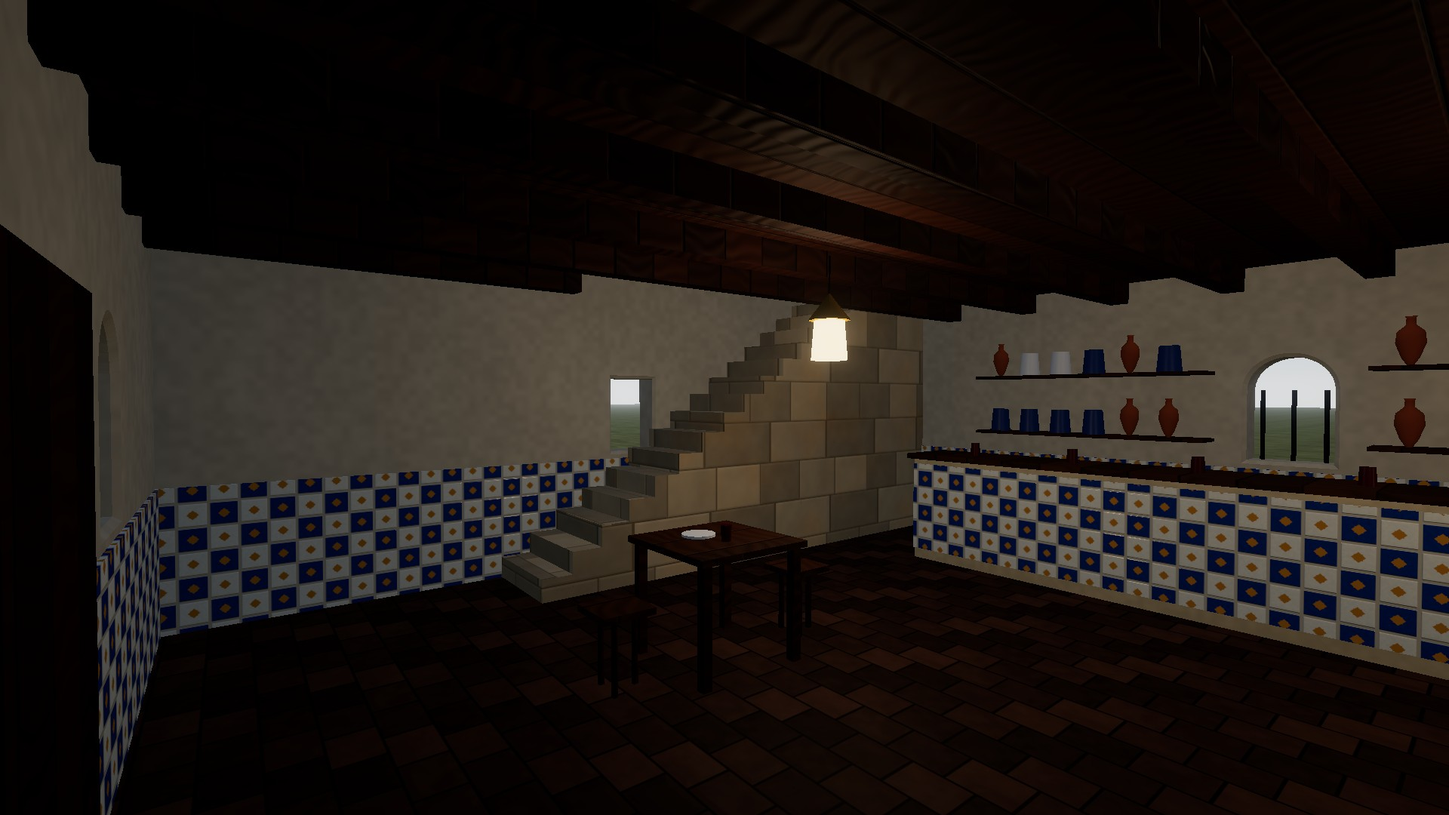
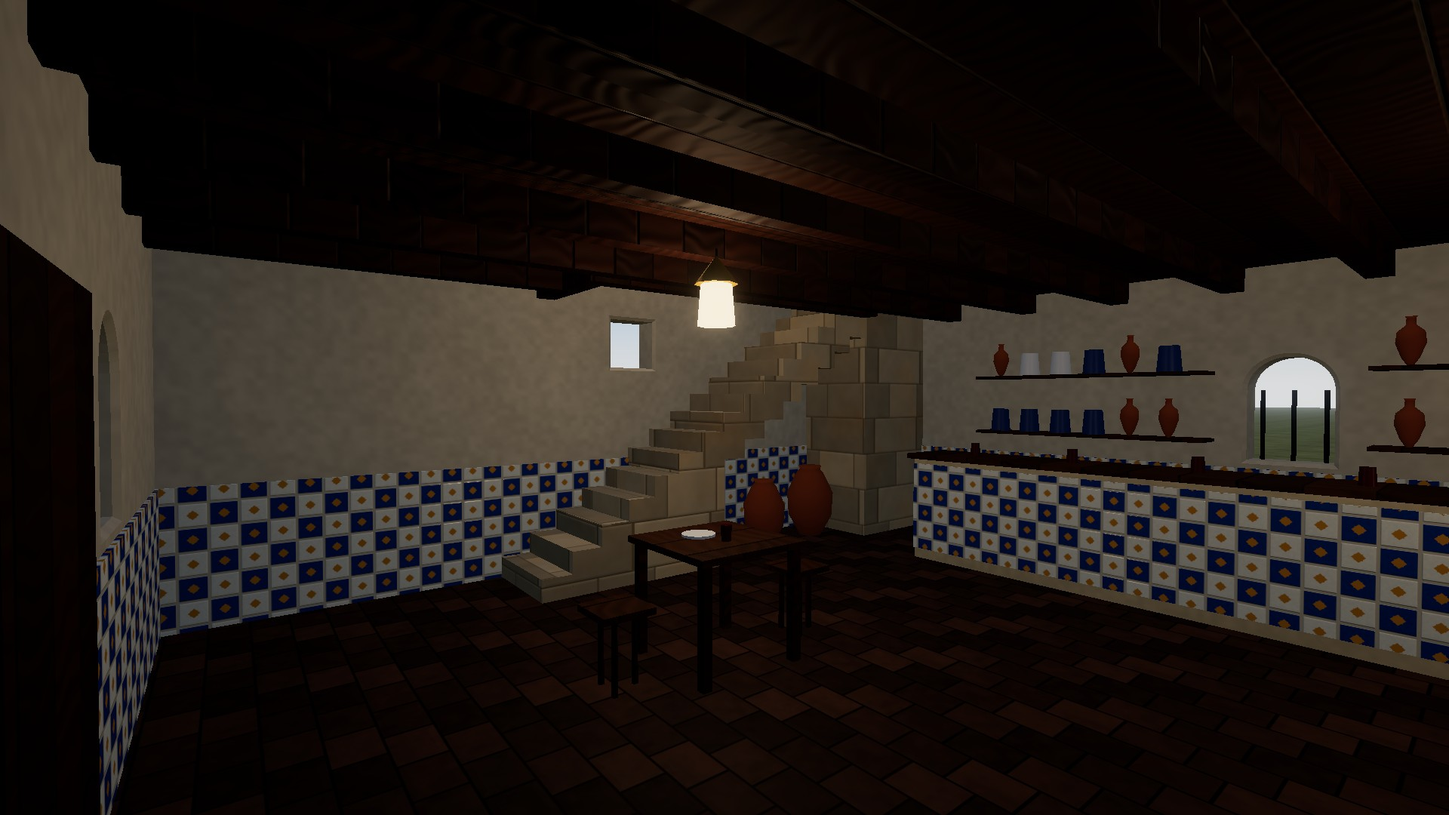
Session 1307: Aurenne's tavern, the stair opened and the well framed and lit (card F9, prototype)
The critic's walk of 1296: the upper flight open beneath on a solid base, two oil jars under it; the
well framed by cedar trimmers and lit by a bracket lamp; the west window the flight ran across raised
to a stair light (aurenneHouse's o.stairWin); the pendant lamp over the left table; view=well.

Claude-Session: https://claude.ai/code/session_01KVL3tvJZTi75bZ8tVe8U2Q

diff --git a/docs/prototypes/levelup/rooms.js b/docs/prototypes/levelup/rooms.js
@@ -475,8 +475,10 @@ export function markAlehall(o = {}, r = stream('alehall')) {
 //   landing in the back corner, the left table moved in off it; upstairs a passage along the back wall from the landing, three guest rooms
 //   off it behind plaster partitions, each with a cedar bed under an indigo cover, a chest at its foot and a basin on a stand under its
 //   front window, the first bed in the nook over the stair's foot. Adds floors, stair, well, passage, rooms [{ x0, x1, door }], beds, paths.
+//   Session 1307 (the critic's walk): the upper flight open beneath, two oil jars stored under it; the well framed in cedar and lit by a
+//   lamp on the west wall; the west window raised over the flight (o.stairWin); the pendant lamp over the left table, 2.06 m clear.
 export function aurenneTavern(o = {}, r = stream('tavern')) {
-  const R2 = !!o.rooms, w = 9.6, d = 8.0, sh = aurenneHouse({ kind: 'tile', w, d, two: R2, arcade: true, wall: 0, door: 2, pointed: false, green: false, interior: true }, stream('tavern-shell'));
+  const R2 = !!o.rooms, w = 9.6, d = 8.0, sh = aurenneHouse({ kind: 'tile', w, d, two: R2, arcade: true, wall: 0, door: 2, pointed: false, green: false, interior: true, ...(R2 ? { stairWin: { y: 1.95, h: .55 } } : {}) }, stream('tavern-shell'));
   const M = homeMats(), B = new Map(), boxes = [];
   const put = (geo, key, x = 0, y = 0, z = 0, ry = 0, uv = .6) => { const g = geo.index ? geo.toNonIndexed() : geo; for (const k of Object.keys(g.attributes)) if (!['position', 'normal'].includes(k)) g.deleteAttribute(k);
     g.applyMatrix4(new THREE.Matrix4().compose(new THREE.Vector3(x, y, z), new THREE.Quaternion().setFromEuler(new THREE.Euler(0, ry, 0)), new THREE.Vector3(1, 1, 1))); worldUV(g, uv); if (!B.has(key)) B.set(key, []); B.get(key).push(g); return g; };
@@ -520,17 +522,25 @@ export function aurenneTavern(o = {}, r = stream('tavern')) {
   for (let i = 0; i < 160; i++) { const x = -w / 2 + .4 + r() * (w - .8), z = PZ0 - .2 + r() * (PZ1 - PZ0 + .4); put(new THREE.IcosahedronGeometry(.12 + r() * .1, 0), 'leaf', x, PY + .26 + r() * .1, z, r() * 6); if (r() < .08) put(new THREE.ConeGeometry(.07, .2, 6).rotateX(Math.PI), 'grape', x, PY + .05, z); }
   for (const x of [-w / 2 + .5, w / 2 - .5]) for (let k = 0; k < 14; k++) put(new THREE.IcosahedronGeometry(.08 + r() * .05, 0), 'leaf', x + (r() - .5) * .2, FT + .3 + k * .17, PZ1 + (r() - .5) * .2, r() * 6);
   // the lamps: two brass lanterns inside from the beams, and one in the middle arch
-  const lamps = [], LT = R2 ? F1 - .4 : TOP - .2 /* the beams they hang from */, LY = R2 ? F1 - .95 : TOP - .75; for (const [x, y, z] of [[-1.6, LY, .2], [1.8, LY, -.8]]) { bx('iron', x - .005, x + .005, y + .2, LT, z - .005, z + .005); put(new THREE.CylinderGeometry(.1, .12, .26, 8), 'glow', x, y, z); put(new THREE.ConeGeometry(.14, .18, 8), 'brass', x, y + .22, z); lamps.push([x, y, z]); }
+  const lamps = [], LT = R2 ? F1 - .4 : TOP - .2 /* the beams they hang from */, LY = R2 ? F1 - .75 : TOP - .75; for (const [x, y, z] of [[R2 ? -1.9 : -1.6, LY, R2 ? .9 : .2] /* o.rooms: over the left table, off the stair's line (Session 1307) */, [1.8, LY, -.8]]) { bx('iron', x - .005, x + .005, y + .2, LT, z - .005, z + .005); put(new THREE.CylinderGeometry(.1, .12, .26, 8), 'glow', x, y, z); put(new THREE.ConeGeometry(.14, .18, 8), 'brass', x, y + .22, z); lamps.push([x, y, z]); }
   // o.rooms: the stair up the west wall, 16 masonry risers going 0.26 from beside the door to the landing in the back corner; the upper
   // floor of cedar boards under red tiles on beams every 0.9 m, open over the stair where a head would meet it (the well); a passage
   // along the back wall, three rooms off it behind plaster partitions; the rail-less well walled on its two open sides by the partitions
   const RM = []; let stair = null, well = null, PZ = null, beds = [], paths = null;
   if (R2) { const N = 16, rise = (F1 - F0) / N, going = .26, WX = -X + .95, LZ = -Z + 1.15, SZ0 = LZ + (N - 1) * going /* the foot */;
-    for (let k = 1; k < N; k++) bx('step', -X, WX, F0, F0 + k * rise, SZ0 - k * going, SZ0 - (k - 1) * going, 'stair', 0);
+    // (Session 1307) the lower seven treads stand on a solid base; the upper flight bridges from it to the landing's pier as blocks
+    // 0.45 m deep under each tread's nosing, so its stepped soffit shows and the store under it holds two oil jars
+    const KS = 7; for (let k = 1; k < N; k++) bx('step', -X, WX, k > KS ? F0 + k * rise - .45 : F0, F0 + k * rise, SZ0 - k * going, SZ0 - (k - 1) * going, 'stair', 0);
     bx('step', -X, WX, F0, F1 - .2, -Z, LZ, 'landing', 0);
+    for (const [z, s] of [[SZ0 - 10.6 * going, .78], [SZ0 - 13.4 * going, .9]]) { const jx = (-X + WX) / 2; put(new THREE.LatheGeometry([[.001, 0], [.14, 0], [.28, .25], [.3, .55], [.18, .8], [.13, .86], [.15, .9], [.001, .9]].map(([a, b]) => new THREE.Vector2(a * s, b * s)), 14), 'terra', jx, F0, z);
+      boxes.push({ tag: 'oiljar', x0: jx - .3 * s, x1: jx + .3 * s, y0: F0, y1: F0 + .9 * s, z0: z - .3 * s, z1: z + .3 * s, fl: 0 }); }
     const kmax = Math.floor((F1 - .4 - F0 - 2.0) / rise) /* 2 m under the beams over the treads the floor covers */; well = { x0: -X, x1: WX, z0: LZ, z1: SZ0 - kmax * going };
     for (const [a0, a1, b0, b1] of [[WX, X, -Z, Z], [-X, WX, -Z, well.z0], [-X, WX, well.z1, Z]]) { bx('cedar', a0, a1, F1 - .2, F1 - .03, b0, b1); bx('tile', a0, a1, F1 - .03, F1, b0, b1); }
     for (let x = -X + .5; x < X - .2; x += .9) { const over = x < WX + .1; bx('cedarD', x - .08, x + .08, F1 - .4, F1 - .2, over ? well.z1 : -Z, Z); if (over) bx('cedarD', x - .08, x + .08, F1 - .4, F1 - .2, -Z, well.z0); }
+    // (Session 1307) the well framed: a cedar trimmer down its open side and one across its foot, as deep as the beams, the floor's
+    // edge lined in plaster between them, so the opening reads from the room below
+    bx('cedarD', WX, WX + .18, F1 - .4, F1 - .2, well.z0, well.z1 + .18); bx('cedarD', -X, WX, F1 - .4, F1 - .2, well.z1, well.z1 + .18);
+    bx('plaster', WX, WX + .02, F1 - .2, F1, well.z0, well.z1); bx('plaster', -X, WX, F1 - .2, F1, well.z1, well.z1 + .02);
     stair = { x0: -X, x1: WX, z0: LZ, z1: SZ0, rise: +rise.toFixed(4), going, n: N };
     // upstairs: a dado of glazed tile to 0.6 m, the partitions in plaster to the roof's beams, a door into each room off the passage
     for (const e of [-1, 1]) bx('zellige', e > 0 ? X - .02 : -X, e > 0 ? X : -X + .02, F1, F1 + .6, -Z, Z); bx('zellige', -X, X, F1, F1 + .6, -Z, -Z + .02); bx('zellige', -X, X, F1, F1 + .6, Z - .02, Z);
@@ -548,6 +558,8 @@ export function aurenneTavern(o = {}, r = stream('tavern')) {
       { const g = new THREE.CylinderGeometry(.1, .1, .86, 12); g.rotateZ(Math.PI / 2); put(g, 'madder', (b.x0 + b.x1) / 2, F1 + .54, b.z1 - .25); }
       bx('cedarD', b.x0 + .05, b.x1 - .05, F1, F1 + .48, b.z0 - .55, b.z0 - .05, 'chest', 1); bx('brass', b.x0 + .05, b.x1 - .05, F1 + .3, F1 + .33, b.z0 - .56, b.z0 - .55); beds.push(b);
       const wx = wins[i], wz = Z - .3; bx('cedar', wx - .22, wx + .22, F1, F1 + .78, wz - .2, wz + .2, 'washstand', 1); put(new THREE.CylinderGeometry(.16, .1, .07, 14), 'brass', wx, F1 + .815, wz); put(new THREE.LatheGeometry([[.001, 0], [.06, 0], [.08, .1], [.05, .2], [.04, .24], [.001, .24]].map(([a, c]) => new THREE.Vector2(a, c)), 10), 'terra', wx + .14, F1 + .78, wz - .06); });
+    // (Session 1307) a lamp on a bracket in the well, on the west wall over the upper flight, so the opening shows lit from below
+    { const lx = -X + .22, ly = F1 + 1.15, lz = well.z1 - .7; bx('iron', -X, lx, ly + .2, ly + .23, lz - .01, lz + .01); put(new THREE.CylinderGeometry(.1, .12, .26, 8), 'glow', lx, ly, lz); put(new THREE.ConeGeometry(.14, .18, 8), 'brass', lx, ly + .2, lz); lamps.push([lx, ly, lz]); }
     // a brass lamp on a bracket over the passage, on the back wall
     { const lx = .1, ly = F1 + 1.95, lz = -Z + .25; bx('iron', lx - .01, lx + .01, ly + .2, ly + .23, -Z, lz); put(new THREE.CylinderGeometry(.1, .12, .26, 8), 'glow', lx, ly, lz); put(new THREE.ConeGeometry(.14, .18, 8), 'brass', lx, ly + .2, lz); lamps.push([lx, ly, lz]); }
     // the walks, each on its floor: in at the door, across the front of the room to the stair's foot; off the landing along the passage

diff --git a/docs/prototypes/levelup/rooms-view.js b/docs/prototypes/levelup/rooms-view.js
@@ -17,7 +17,8 @@
 // the terrace to the sea; view=tap: inside from the door to the counter; view=pergola: from the parapet back under the vine to the
 // arcade; view=outside: the tavern from the water. The ground stops at the quay; the sea lies 3.2 m below.
 // &rooms=1 (Session 1296): the tavern two storeys high with three rooms to let upstairs. view=stair: from inside the door to the stair up
-// the west wall; view=upstairs: the passage from the landing; view=chamber&n=0|1|2: a guest room from its door.
+// the west wall; view=well (Session 1307): from beside the stair's foot up the flight into the well; view=upstairs: the passage from the
+// landing; view=chamber&n=0|1|2: a guest room from its door.
 // ?room=court (Session 899): Aurenne's courtyard house. view=court (default): from inside the street door through the vestibule and the
 // arcade to the fountain and the hall's arch; view=gallery: from a corner of the upper gallery down over the court; view=hall: the
 // reception hall; view=kitchen; view=bedroom; view=study; view=children; view=outside: the house from the street; view=above: the roof
@@ -300,6 +301,7 @@ else if (CRT) { const S = C.sh, [F0, F1] = C.floors, A = S.A;
   else { eye = [0, F0 + 1.62, A - .25]; at = [0, F0 + 1.1, -6]; cam.fov = 66; } }
 else if (TAV) { const Z = C.inner.z1, X = C.inner.x1, T = C.terrace, F1 = C.floors ? C.floors[1] : 0;
   if (VIEW === 'stair' && C.stair) { eye = [1.2, C.floor + 1.62, Z - .4]; at = [-X, C.floor + 1.5, -1.2]; cam.fov = 66; }
+  else if (VIEW === 'well' && C.stair) { const S = C.stair, sx = (S.x0 + S.x1) / 2; eye = [sx + .55, C.floor + 1.62, S.z1 + 1.1]; at = [sx, F1 + .5, C.well.z0]; cam.fov = 74; }
   else if (VIEW === 'upstairs' && C.rooms) { eye = [-X + .5, F1 + 1.62, (-C.inner.z1 + C.passage) / 2 - .3]; at = [X, F1 + 1.2, (-C.inner.z1 + C.passage) / 2 + .1]; cam.fov = 70; }
   else if (VIEW === 'chamber' && C.rooms) { const R = C.rooms[+Q.get('n') || 1]; eye = [R.door.x, F1 + 1.62, C.passage + .3]; at = [R.door.x + (R.x1 - R.x0) * .15, F1 + .6, Z]; cam.fov = 72; }
   else if (VIEW === 'tap') { eye = [C.door.x + .3, C.floor + 1.62, Z - .2]; at = [-.6, C.floor + 1.0, -Z]; cam.fov = 66; }

diff --git a/docs/prototypes/levelup/pieces.js b/docs/prototypes/levelup/pieces.js
@@ -109,7 +109,9 @@ export function aurenneHouse(o, r) {
   put(box(w + .16, pl, d + .16), 'plinth', 0, pl / 2, 0);
   const yW = pl;
   put(wallGeo(w, H, front), wallK, 0, yW, d / 2 - T / 2); put(wallGeo(w, H, back), wallK, 0, yW, -d / 2 + T / 2, Math.PI);
-  put(wallGeo(d - 2 * T + .02, H, side), wallK, w / 2 - T / 2, yW, 0, Math.PI / 2); put(wallGeo(d - 2 * T + .02, H, side), wallK, -w / 2 + T / 2, yW, 0, -Math.PI / 2);
+  // o.stairWin (Session 1307, the tavern's rooms): the west wall's ground window raised to { y, h }, a stair light over a flight up that wall
+  const sideW = o.stairWin ? side.map(h => h.up ? h : { ...h, ...o.stairWin }) : side;
+  put(wallGeo(d - 2 * T + .02, H, side), wallK, w / 2 - T / 2, yW, 0, Math.PI / 2); put(wallGeo(d - 2 * T + .02, H, sideW), wallK, -w / 2 + T / 2, yW, 0, -Math.PI / 2);
   if (!o.interior) put(box(w - 2 * T, H - .3, d - 2 * T), 'dark', 0, yW + (H - .3) / 2, 0);
   // the door: five cedar boards in its colour set back in the reveal under a half-round head, iron studs, a stone step, the tile frame round it
   for (const h of front.filter(h => h.door)) { const dz = d / 2 - T * .7, nb = 5, sh = h.h - h.w / 2;
@@ -131,7 +133,7 @@ export function aurenneHouse(o, r) {
       for (const sx of [-1, 1]) put(box(.08, .32, .3), 'cedar', hx + sx * (bw / 2 - .08), by - bh / 2 - .22, z + s * .12);
       continue; }
     for (let i = 0; i < 3; i++) put(new THREE.CylinderGeometry(.018, .018, h.h - h.w / 2, 5), 'iron', hx - h.w / 3 + i * h.w / 3, yW + h.y + (h.h - h.w / 2) / 2, z - s * .1); }
-  for (const sx of [-1, 1]) for (const h of side) put(box(h.w + .2, .08, .2), 'stone', sx * (w / 2 + .05), yW + h.y - .04, 0, sx * Math.PI / 2);
+  for (const sx of [-1, 1]) for (const h of sx < 0 ? sideW : side) put(box(h.w + .2, .08, .2), 'stone', sx * (w / 2 + .05), yW + h.y - .04, 0, sx * Math.PI / 2);
   const top = yW + H; let roofTop = top, depthOut = d / 2 + .3;
   if (o.kind === 'tile') {
     // Roman: a stone cornice, a hipped roof at 22° in pantile, ridge tiles on the hips and the ridge, rafter ends under the eaves

diff --git a/docs/backlog.md b/docs/backlog.md
@@ -553,7 +553,7 @@ Michael marked all 96 images of the intake on the review page: 63 KEEP and 33 NO
 
 ### L9. Culture and daily life (the second and third rounds)
 - **Festivals on the calendar** (systems and quest writer; OG-107; with the calendar's market days and feasts): three festivals an island, each in its month: the Greening (a maypole spring feast), Riverfair (a summer fair on the rivers), the Night of the Lanterns (October, lanterns let go for those who never came back from the gates, close to the canon); Midwinter fires, a fair of boat races and duels, a First Snow rite under the aurora; a festival of learning, a spice caravan, lamps set afloat. Everyday life to fill the towns: stalls, a smith at work, a temple service, wrestling and archery, a harbour gathering. The Mark's fair is run by captains and reeves, not jarls and a thane; “many gods” belongs to the Gatelands' old faith, not the Church. **Drafted:** *Festivals on the Calendar, I* (quest writer, 21 Oct, unapproved; `docs/quest_drafts.md`, on the page as `festivals-1`): all nine named and dated, each on its god's day (the Greening Sowing 3, Riverfair Haysel 18, the Night of the Lanterns Leaffall 26; the Mark's Blaze, Strait Fair and First Snow; Aurenne's Commencement, Caravan and Lamps on the Water), and the Gatelands' three written in full: greetings by people, a ribbon, a cup for the sea, a lantern. The rules it asks are small (a festival fills the square as a feast does, by the town's nation; nothing free). Owed: the Mark's three (run 2), Aurenne's three (run 3); for the look builder once approved, the dressed pole and the rising lanterns.
-- **Three inns** (look builder, interiors; OG-108): a Gatelander inn round its hearth, a Markish longhouse of long tables, an Aurennais tavern on a terrace over the sea. With L5's interiors by nation. **Begun, Session 893 (card F9, prototype):** the Gatelander inn, `gatelandsInn` inside the kit's farmhouse (its front door `ajar`), `rooms.html?room=inn`: a taproom round the west gable's hearth with a settle, the bar and its kegs across the back wall, two tables with benches, a stair up the east gable, three guest rooms off a passage upstairs; `rooms.check.mjs` 34 of 34; the shell and the rooms asked as **DECISION #320**. **The Mark's inn, Session 894 (prototype):** `markAlehall` inside `markHall` widened to 10 by 18 m, `rooms.html?room=alehall`: a long hearth under the louver, two long tables of 12.6 m between the posts with loose benches, furred wall benches to eat and sleep on, the counter and kegs across the back, a rack of spears and round shields by the door; `rooms.check.mjs` 40 of 40; where guests sleep and the size asked as **DECISION #321**. **Aurenne's tavern, Session 895 (prototype):** `aurenneTavern` inside the Roman Aurennais house with its arcade, `rooms.html?room=tavern`: a tiled room with the counter, amphorae and the cooking bench; two tables in the loggia; a paved terrace of 4 m to a parapet on the quay wall, three tables under a vine; `rooms.check.mjs` 46 of 46; the house and the shade asked as **DECISION #322**. The three inns are drawn; each waits on its decision. **Into the game, begun, Session 1157 (card F9):** the Gatelander taproom (#320's 2 A) copied into `js/38-kit.js` as `PKIT.gl.inn(o, r)`, the prototype's own triangles and vertices for four keys (`tests/kitinnroom`); ~~hung inside the village inn on `?look=new`~~ — done, Session 1161: a Gatelands village inn on three bays is the taproom inside (`buildKitTaproom`, `tests/kittaproom`). ~~A two-bay inn's taproom~~ — done, Session 1276 (`gatelandsInn`'s `o.bays`, prototype and kit: one table, two rooms, the door in the west bay; `house._exitX`, `intDoorX`). Still owed: a coaching inn's taproom (it keeps the old room). **The Mark's alehall copied into the game's kit, Session 1159** (#321 A; `PKIT.mk.alehall`, `tests/kitalehall`); ~~its hanging in a Markish inn~~ — done, Session 1288 (OG-108; the inn's lot the kit's hall outside, up to 10 by 18 m, `lot.kit.alehall`; `buildKitAlehall` inside at 10 by 18, six places 0–5 on the wall benches, the benches 0.40 high to step onto; `tests/alehallroom`). **The keeper's words for a bench, Session 1285** (#588 A, the quest writer): `INN_BENCH_LINES.markman`, the greeting `INN_BENCH_GREET`, six places named by `innBenchName` (0–2 the left bench and 3–5 the right, as you come in, each counted door, middle, counter), the bed prompts and the lapse line. They switch on when `innBench(house)` is true, which reads `house.kit.alehall`: the look builder sets `alehall:true` on the inn's `lot.kit` at planning (before `makeDef` gives the keeper a greeting) and gives the bench's beds `owner:'inn'` and `room` 0–5 in that order. **Aurenne's tavern copied into the game's kit, Session 1167** (#322 A; `PKIT.au.tavern`, with Aurenne's house `PKIT.au.house` and its surfaces, `tests/kittavern`); its hanging waits on Aurenne's lots coming into the game. **Rooms to let, Session 1296 (prototype):** as drawn the tavern has one storey and no beds, while the Aurennais keeper lets "a room … up the stairs" (`INN_ROOM_LINES.aurennais`); `aurenneTavern({ rooms: true })`, `rooms.html?room=tavern&rooms=1`, is the house two storeys high, a stair of 16 risers up the west wall, a passage along the back upstairs and three rooms off it, a bed, a chest and a basin in each; `rooms.check.mjs`'s five new checks; asked as **DECISION #602** (rooms upstairs or the words changed, and every Aurennais inn or the ports only). The hanging waits on it. **Not yet as #303's 1 A asks:** every room, the taproom included, still loads as its own scene at the door; rooms inside the street's own shell with no load (the indoor flag, world-space solids, the light) is a cross-cutting change for a deep-work card.
+- **Three inns** (look builder, interiors; OG-108): a Gatelander inn round its hearth, a Markish longhouse of long tables, an Aurennais tavern on a terrace over the sea. With L5's interiors by nation. **Begun, Session 893 (card F9, prototype):** the Gatelander inn, `gatelandsInn` inside the kit's farmhouse (its front door `ajar`), `rooms.html?room=inn`: a taproom round the west gable's hearth with a settle, the bar and its kegs across the back wall, two tables with benches, a stair up the east gable, three guest rooms off a passage upstairs; `rooms.check.mjs` 34 of 34; the shell and the rooms asked as **DECISION #320**. **The Mark's inn, Session 894 (prototype):** `markAlehall` inside `markHall` widened to 10 by 18 m, `rooms.html?room=alehall`: a long hearth under the louver, two long tables of 12.6 m between the posts with loose benches, furred wall benches to eat and sleep on, the counter and kegs across the back, a rack of spears and round shields by the door; `rooms.check.mjs` 40 of 40; where guests sleep and the size asked as **DECISION #321**. **Aurenne's tavern, Session 895 (prototype):** `aurenneTavern` inside the Roman Aurennais house with its arcade, `rooms.html?room=tavern`: a tiled room with the counter, amphorae and the cooking bench; two tables in the loggia; a paved terrace of 4 m to a parapet on the quay wall, three tables under a vine; `rooms.check.mjs` 46 of 46; the house and the shade asked as **DECISION #322**. The three inns are drawn; each waits on its decision. **Into the game, begun, Session 1157 (card F9):** the Gatelander taproom (#320's 2 A) copied into `js/38-kit.js` as `PKIT.gl.inn(o, r)`, the prototype's own triangles and vertices for four keys (`tests/kitinnroom`); ~~hung inside the village inn on `?look=new`~~ — done, Session 1161: a Gatelands village inn on three bays is the taproom inside (`buildKitTaproom`, `tests/kittaproom`). ~~A two-bay inn's taproom~~ — done, Session 1276 (`gatelandsInn`'s `o.bays`, prototype and kit: one table, two rooms, the door in the west bay; `house._exitX`, `intDoorX`). Still owed: a coaching inn's taproom (it keeps the old room). **The Mark's alehall copied into the game's kit, Session 1159** (#321 A; `PKIT.mk.alehall`, `tests/kitalehall`); ~~its hanging in a Markish inn~~ — done, Session 1288 (OG-108; the inn's lot the kit's hall outside, up to 10 by 18 m, `lot.kit.alehall`; `buildKitAlehall` inside at 10 by 18, six places 0–5 on the wall benches, the benches 0.40 high to step onto; `tests/alehallroom`). **The keeper's words for a bench, Session 1285** (#588 A, the quest writer): `INN_BENCH_LINES.markman`, the greeting `INN_BENCH_GREET`, six places named by `innBenchName` (0–2 the left bench and 3–5 the right, as you come in, each counted door, middle, counter), the bed prompts and the lapse line. They switch on when `innBench(house)` is true, which reads `house.kit.alehall`: the look builder sets `alehall:true` on the inn's `lot.kit` at planning (before `makeDef` gives the keeper a greeting) and gives the bench's beds `owner:'inn'` and `room` 0–5 in that order. **Aurenne's tavern copied into the game's kit, Session 1167** (#322 A; `PKIT.au.tavern`, with Aurenne's house `PKIT.au.house` and its surfaces, `tests/kittavern`); its hanging waits on Aurenne's lots coming into the game. **Rooms to let, Session 1296 (prototype):** as drawn the tavern has one storey and no beds, while the Aurennais keeper lets "a room … up the stairs" (`INN_ROOM_LINES.aurennais`); `aurenneTavern({ rooms: true })`, `rooms.html?room=tavern&rooms=1`, is the house two storeys high, a stair of 16 risers up the west wall, a passage along the back upstairs and three rooms off it, a bed, a chest and a basin in each; `rooms.check.mjs`'s five new checks; asked as **DECISION #602** (rooms upstairs or the words changed, and every Aurennais inn or the ports only). The hanging waits on it. **Session 1307 (prototype, the critic's walk of 1296):** the upper flight is open beneath on a solid base of seven treads, two oil jars stored under it; the well is framed by cedar trimmers and lit by a bracket lamp on the west wall; the shell's west ground window, which the flight ran across, is raised to a stair light over the treads (`aurenneHouse`'s `o.stairWin`); the pendant lamp hangs over the left table, 2.06 m clear; a new view, `view=well`, from the stair's foot. **Not yet as #303's 1 A asks:** every room, the taproom included, still loads as its own scene at the door; rooms inside the street's own shell with no load (the indoor flag, world-space solids, the light) is a cross-cutting change for a deep-work card.
 - **Music and players by island** (systems for `76-music.js`, the look builder for the players; OG-112): each island its own band: fiddle, whistle, bodhrán, harp and lute; tagelharpa, war horn, frame drum, bowed lyre and bone flute; oud, qanun, ney, riq and santur. Musicians among the townsfolk with an instrument held and a pose of their own; a storyteller by a fire telling of the Old Gates, a skald in the longhouse, travelling players with a wagon, tavern musicians.
 - **The six gods' shrines, dressed by island** (look builder for the dressings, systems for `87-world-quests.js`' shrines; OG-113, the closest sheet to the canon yet): one common niche for each god (a robed figure, a candle, a basin; a wolf for Na Beithígh) with the Guest's seventh niche beside it, its figure chiselled away. The Gatelands' shrines whitewashed, ribboned and tended beside holy wells, with ring-stones and high crosses; the Mark's roofed timber shrines with a lamp always lit, and oath stones; Aurenne's plastered, fenced and regulated, domed churches, tithe-ships with Priors aboard. People: a lamp-keeper, a Church clerk, an Old Blood rubbing-seller, a hereditary gate-keeper, mourners with a bier, a funeral that ends at a gate (the Clearing, §3.1). Objects: the six icons, rubbings, offerings, a tithe box. Not the Mark's “clans and lords” (captains and reeves) or a priest as mayor (Elders). **The row at the town church, Session 1172 (prototype; Michael's C on #439 and his note, “in or near churches?”):** `shrines-church.html?place=back|side|square|all`, the Gatelands' west-tower church (#410 B) on its #433 B plot with the row of seven three ways: A behind the chancel in the plot as laid (1.34 m to the eaves), B along the yard's long side with the yard 2 → 4.5 m (recommended), C free-standing on the square beside the tower door; `shrines.js`'s `row(island, {yard:true})` drops the row's own wall, well, thorn, cross and ring-stone in a churchyard (21.9k tris against 32.6k); `shrines-church.check.mjs` 24 of 24; asked as **DECISION #464**. The page needs #393's `gatelandsChurch` to run.
   - Michael's C on #439 (18 Oct 2026): by place — each wayside shrine is one god's niche; the row of seven stands once per town. His note: “Would it make sense to have the rows in or near churches?”

diff --git a/docs/devlog/1307.md b/docs/devlog/1307.md
@@ -1,0 +1,47 @@
+## v80 — Session 1307 — Aurenne's tavern: the stair opened, the well framed and lit (card F9, prototype)
+The look builder's items in the game wait on answers: Aurenne's tavern on #602, and the main quest's two gates on #613. The
+critic's walk of the prototypes (`docs/critic.md`, run on s827) left three findings for the look builder. One is in my own
+Session 1296: "The stair is a solid ashlar block rising to the beams, though, and from the door no stairwell shows in the ceiling
+over it. The pendant lantern hangs in front of the stair at about head height for a climber on the lower flight." The tavern goes
+into the game once #602 is answered (A, rooms upstairs, is recommended), so I fixed it now, in the prototype. Images: OG-108.
+
+**What was wrong.** The well was there: rays fall through the upper floor onto the treads from z −2.53 to 0.85, 3.38 m of the
+flight, and `rooms.check.mjs` already measured 2.0 m or more over every tread. But it is a slot 0.95 m wide hard against the west
+wall, walled above by the first room's partitions and unlit, so from across the room you see it edge-on, as more ceiling. The
+flight under it was 15 boxes each filled down to the floor, which reads as one block of ashlar. A fault the critic did not name:
+the shell puts the side walls' ground window at the wall's middle, sill 1.1 m, and on the west wall the flight ran across it,
+treads 5 to 7 standing in the opening.
+
+**What changed** (all under `o.rooms`; without it the tavern is the same, so the game's one-storey tavern and `kittavern` are untouched):
+- *The flight.* The lower seven treads stand on a solid base, as before. From the eighth up, each tread is a block 0.45 m deep
+  under its nosing, so the upper flight bridges from the base to the landing's pier with a stepped soffit, 1.02 m over the floor
+  at the base and 2.31 m at the landing. Two oil jars (0.70 and 0.81 m) stand in the store under it.
+- *The well.* A cedar trimmer as deep as the beams runs down its open side and another across its foot, and the floor's edge
+  between them is lined in plaster. A brass lamp on an iron bracket hangs on the west wall inside the well, 1.15 m over the upper
+  floor and 0.7 m in from the foot of the opening, so from the stair the opening shows lit.
+- *The window.* `aurenneHouse` takes `o.stairWin` (`pieces.js`): the west wall's ground window moved to `{ y, h }`, its sill
+  with it. The tavern asks for `{ y: 1.95, h: .55 }`, a small square stair light 0.8 m over the flight's pitch line at the window,
+  its head 5 cm under the beams. No other caller passes it, and the walls are built in the same order, so every other house is
+  the same vertex for vertex.
+- *The pendant lamp.* With rooms it hangs over the left table (−1.9, 0.9), 2.06 m clear of the floor (was −1.6, 0.2 at 1.86 m).
+  It was never in the climber's way (2.3 m east of the flight); from the door it only looked so.
+- *A view.* `rooms.html?room=tavern&rooms=1&view=well`: from beside the stair's foot up the flight into the well.
+
+The cost: about 500 triangles more. The four keys are 12,472 to 12,952 triangles in 21 meshes (11,972 to 12,452 before). The shell is unchanged:
+5,052 in 8.
+
+### Verified (headless Chromium)
+- `rooms.check.mjs` all passed. The tavern with rooms, 4 keys: 12,472 to 12,952 triangles in 21 meshes, each the same twice; every
+  piece inside its walls and none in another (the jars and the trimmers included); the walks clear, 0 steps over the well; 16 risers
+  of 0.1838 m with 2.17 m or more over every tread; 2.54 m under the ground floor's beams, 2.38 m under the roof upstairs. The tavern
+  without rooms is unchanged: 10,448 to 10,928 in 18.
+- `aurenne.check.mjs` and `pieces.check.mjs` all passed (aurenneHouse without `stairWin` is unchanged).
+- Rays straight down at x −4.3, −4.0 and −3.7 meet the treads from z −2.5 to 0.75, and the upper floor's tiles everywhere else.
+- Pictures: `docs/prototypes/levelup/rooms-tavern2-stair.jpg` (from the door, replaced) and `rooms-tavern2-well.jpg` (new).
+
+### Needs eyes
+- From the door the well still doesn't show. The eye is 1.6 m up and 5 m off a 0.95 m slot against the wall, and the trimmer
+  hides it. A wider well would take the first guest room's bed nook, so I left the geometry alone. The well shows from the stair's
+  foot, which is where a player looks for it.
+- Of the critic's other two findings, the terraces' bridge pier (Session 1242) is this lane's and comes next. The snow row's copse
+  is the concept artist's seasons page (waiting on #579).
